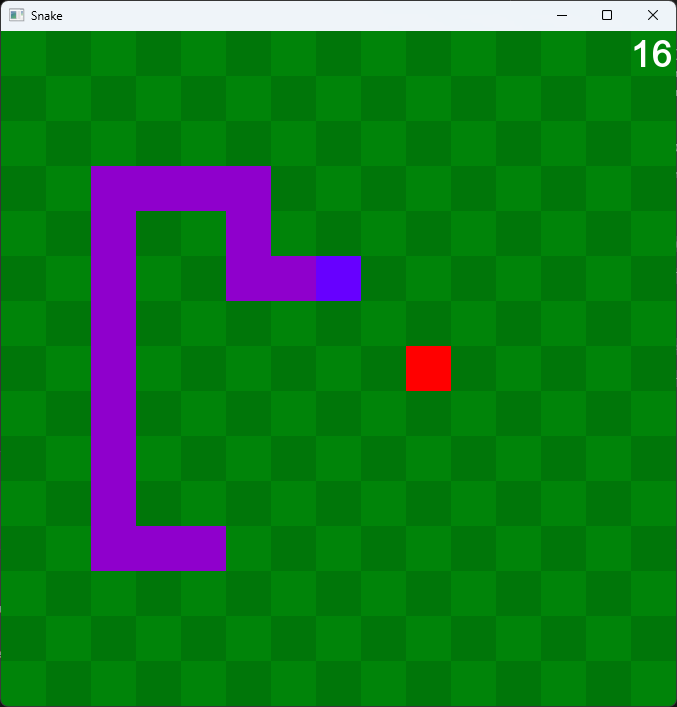
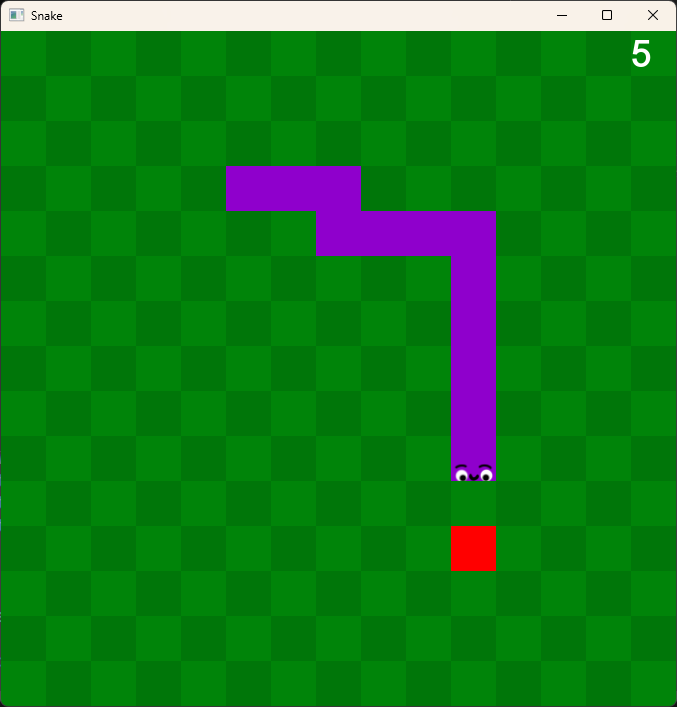
Updated screenshot and adds 2 segments per apple

Changed region(s): [[0.1241, 0.2178, 0.7445, 0.8091], [0.6514, 0.7468, 0.7445, 0.8091], [0.9306, 0.0311, 0.9926, 0.0934]]

diff --git a/src/Game.cpp b/src/Game.cpp
@@ -81,6 +81,8 @@ bool Game::tryUpdateSnakeState() {
 	}
 	
 	if (detectAppleCollision(nextHeadPos)) {
+		// Add 2 segments and a point
+		m_snake.addSegment();
 		m_snake.addSegment();
 		m_scoreCounter.addPoint();
 
